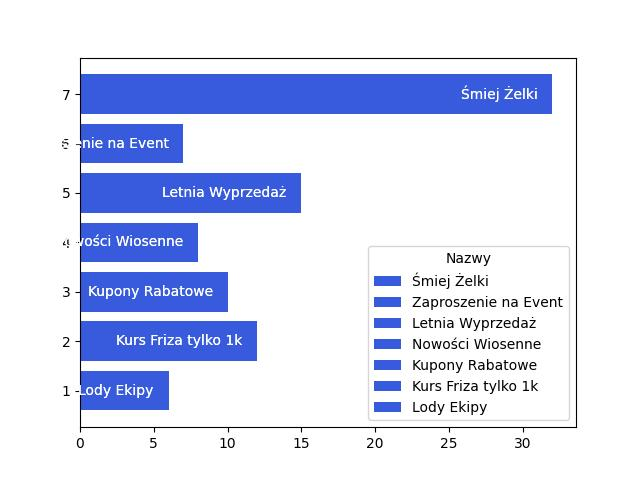
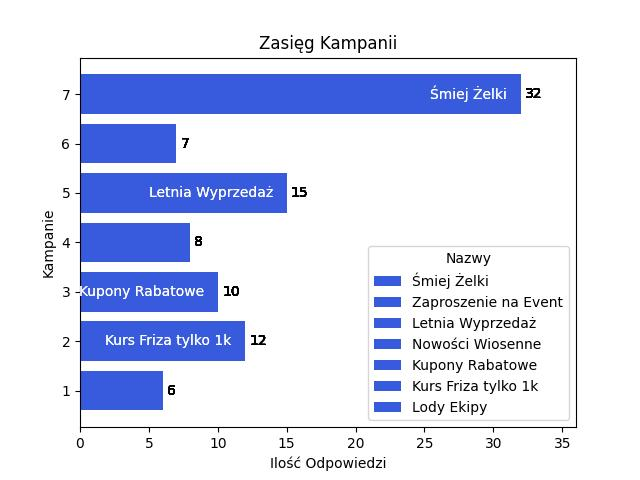
wykres skonczony ale troche bardziej :)

diff --git a/mails/views.py b/mails/views.py
@@ -9,6 +9,8 @@ from django.contrib.auth.decorators import login_required
 from django.contrib.auth import authenticate, login
 from django.shortcuts import redirect
 
+import math
+
 import matplotlib.pyplot as plt
 import numpy as np
 import io
@@ -35,10 +37,16 @@ def mainView(request):
     bars = plt.barh(np.arange(len(name)), number, color="#375BDC")
 
     for i, bar in enumerate(bars):
-        plt.text(bar.get_width()-1, bar.get_y() + bar.get_height()/2, name[i],
-                ha='right', va='center', color='white', fontsize=10)
+        if bar.get_width()*1.6 > len(name[i]):
+            plt.text(bar.get_width()-1, bar.get_y() + bar.get_height()/2, name[i], ha='right', va='center', color='white', fontsize=10)
+        plt.bar_label(bars, padding=3)
         bar.set_label(name[i])
-
+        
+    plt.xlabel('Ilość Odpowiedzi')
+    plt.ylabel('Kampanie')
+    plt.title('Zasięg Kampanii')
+    l = math.ceil(max(number) * 1.1)
+    plt.xlim(0, l)
     plt.yticks(np.arange(len(name)), np.arange(1, len(name)+1))  
     plt.legend(title="Nazwy", handles=bars[::-1])  
 
